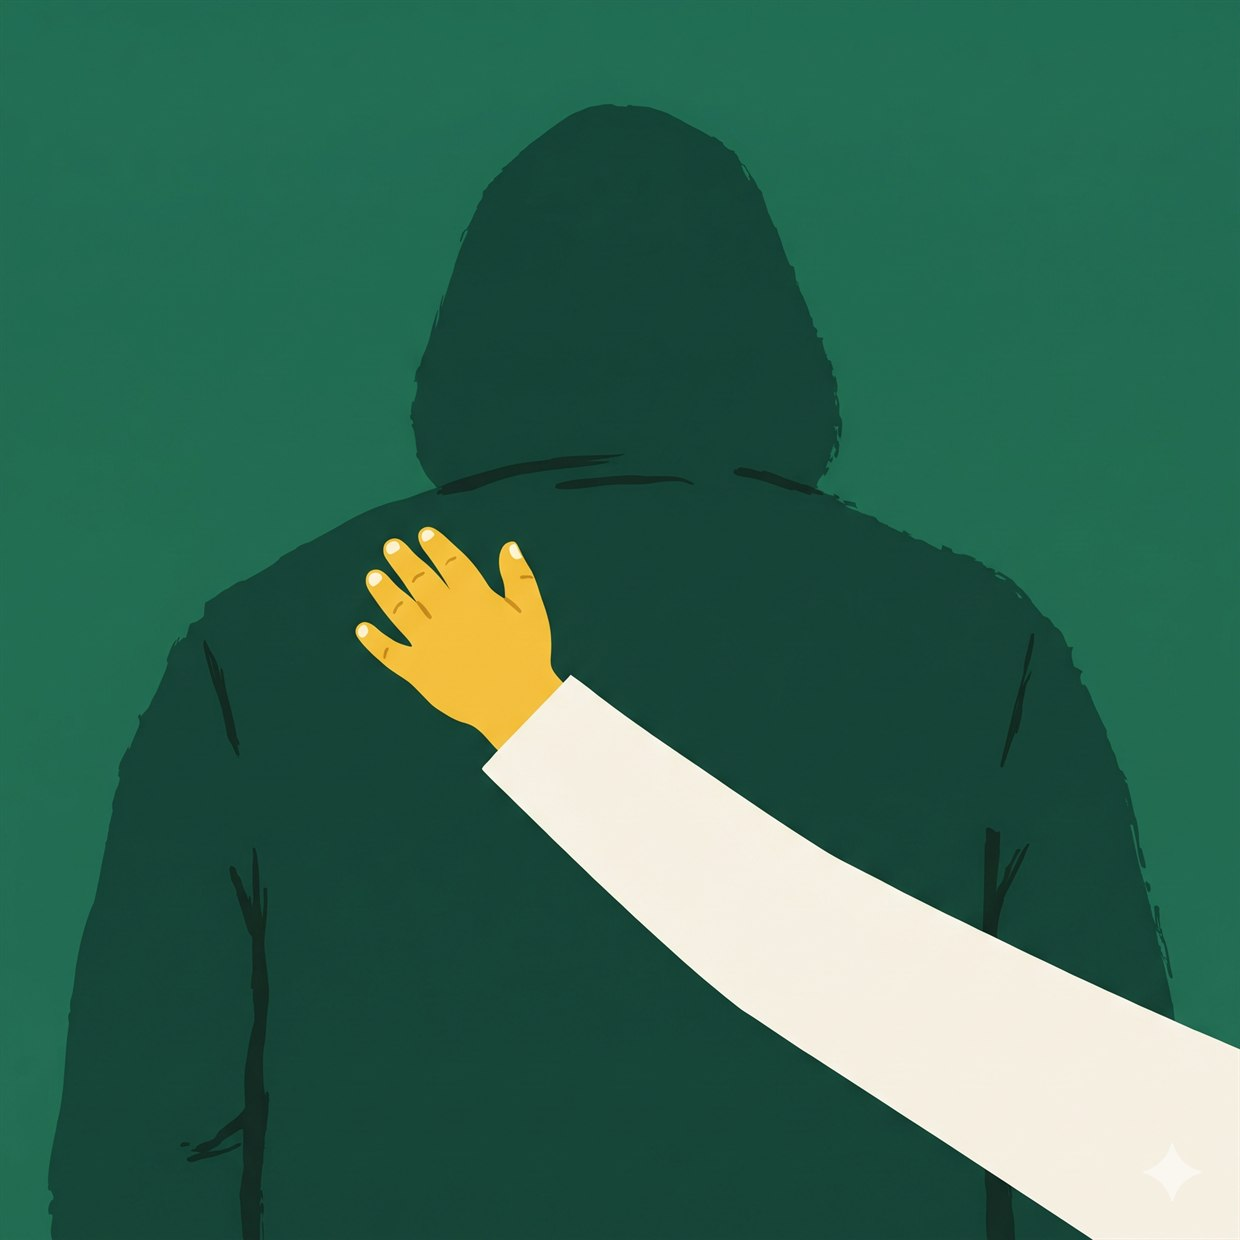
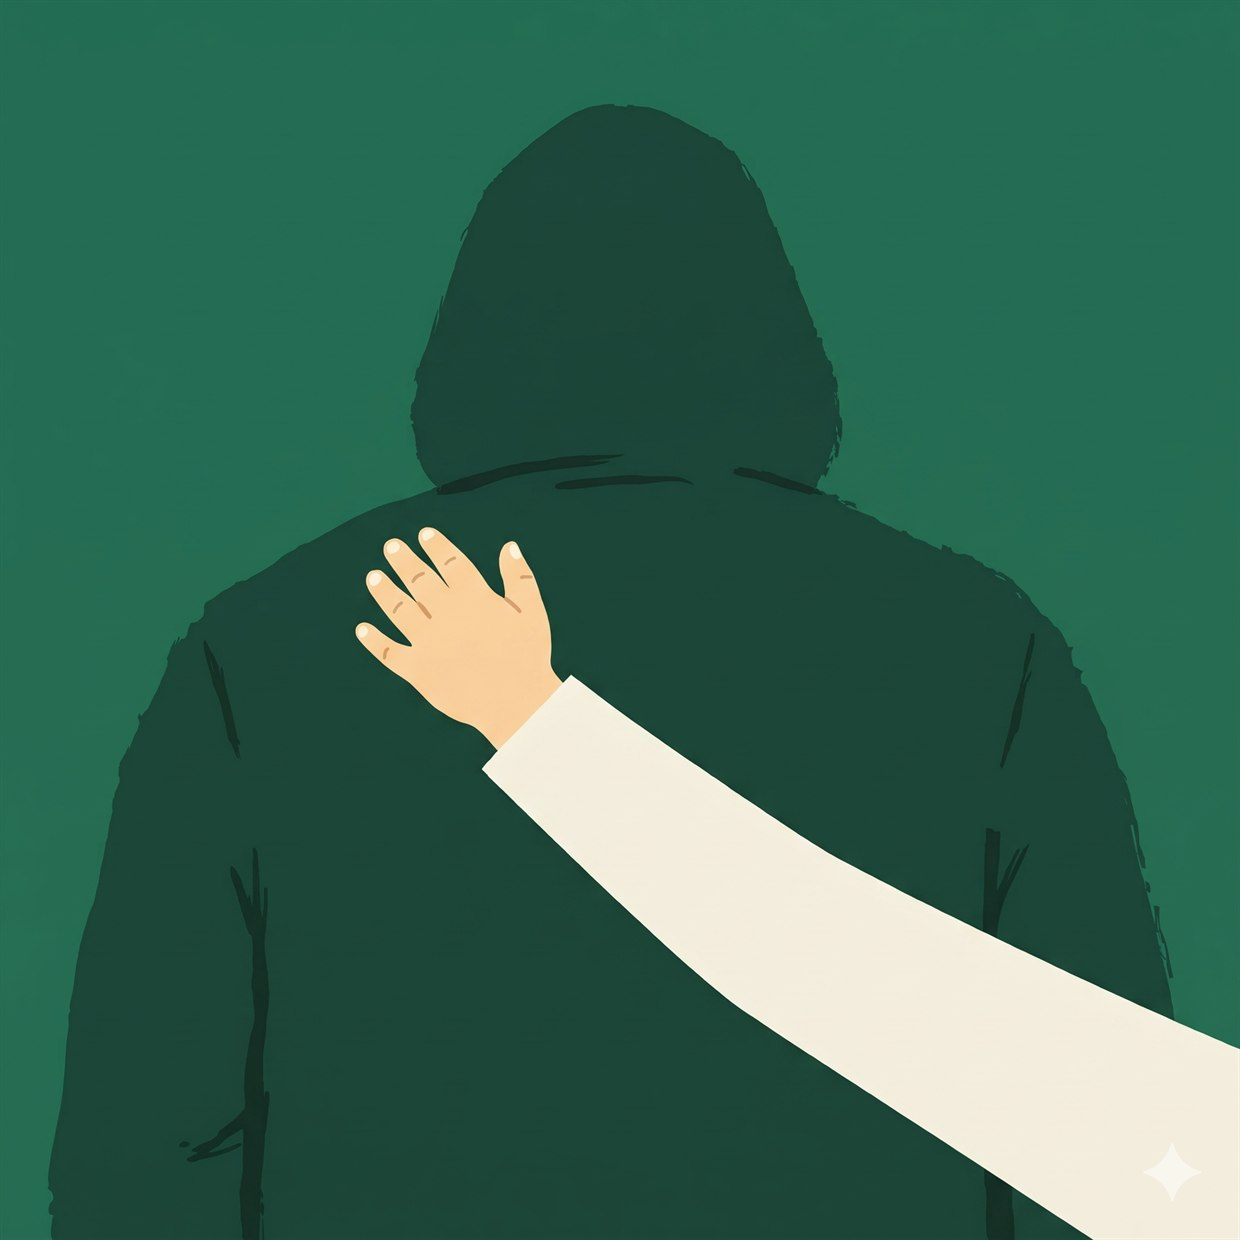
로고와 인트로 장면의 손·얼굴 색을 밝은 베이지로 통일

Changed region(s): [[0.2758, 0.429, 0.4597, 0.6129]]

diff --git a/index.html b/index.html
@@ -6,25 +6,25 @@
 <title>저기요 (가칭)</title>
 <meta name="theme-color" content="#ECEDE8">
 <link rel="manifest" href="manifest.webmanifest">
-<link rel="icon" href="icons/icon-192.png">
-<link rel="apple-touch-icon" href="icons/apple-touch-icon.png">
+<link rel="icon" href="icons/icon-192.png?v=2">
+<link rel="apple-touch-icon" href="icons/apple-touch-icon.png?v=2">
 <meta name="apple-mobile-web-app-capable" content="yes">
 <meta name="mobile-web-app-capable" content="yes">
 <meta name="apple-mobile-web-app-title" content="저기요">
 <meta name="apple-mobile-web-app-status-bar-style" content="default">
-<link rel="preload" as="image" href="intro/scene_a.jpg">
+<link rel="preload" as="image" href="intro/scene_a.jpg?v=2">
 <link rel="stylesheet" href="https://cdn.jsdelivr.net/gh/orioncactus/pretendard@v1.3.9/dist/web/static/pretendard.min.css">
 <link rel="stylesheet" href="https://fonts.googleapis.com/css2?family=Gaegu&display=swap">
-<link rel="stylesheet" href="app.css?v=5">
+<link rel="stylesheet" href="app.css?v=7">
 </head>
 <body>
 <div class="app" id="app"><div class="loading">불러오는 중</div></div>
 <div id="ov"></div>
-<script src="intro.js?v=6"></script>
+<script src="intro.js?v=7"></script>
 <script src="https://cdn.jsdelivr.net/npm/@supabase/supabase-js@2/dist/umd/supabase.min.js"></script>
 <script src="https://cdn.jsdelivr.net/npm/qrcode-generator@1.4.4/qrcode.min.js"></script>
-<script src="config.js?v=5"></script>
-<script src="core.js?v=5"></script>
-<script src="owner.js?v=5"></script>
+<script src="config.js?v=7"></script>
+<script src="core.js?v=7"></script>
+<script src="owner.js?v=7"></script>
 </body>
 </html>

diff --git a/core.js b/core.js
@@ -24,7 +24,7 @@ const isStandalone = matchMedia('(display-mode: standalone)').matches || navigat
 const canVib = () => !!navigator.vibrate && (!navigator.userActivation || navigator.userActivation.hasBeenActive);
 const vib = p => { if (canVib()) try { navigator.vibrate(p); } catch (e) { } };
 
-const LOGO = '<img class="logo" src="icons/icon-192.png" alt="">';
+const LOGO = '<img class="logo" src="icons/icon-192.png?v=2" alt="">';
 const BRAND = LOGO + '<span class="wm">저기요</span>';
 const clock = ms => { const x = Math.max(0, Math.floor(ms / 1000)); return `${Math.floor(x / 60)}:${pad(x % 60)}`; };
 const plateHTML = (t, cls) => `<span class="plate${cls ? ' ' + cls : ''}">${esc(t)}</span>`;
@@ -185,7 +185,7 @@ async function stickerBlob(url) {
   const rr = (x, y, w, h, r) => { g.beginPath(); if (g.roundRect) g.roundRect(x, y, w, h, r); else g.rect(x, y, w, h); };
   const F = 'Pretendard, "Malgun Gothic", sans-serif';
   try { await document.fonts.load('400 76px Gaegu', '저기요'); } catch (e) { }
-  const logo = await new Promise(res => { const im = new Image(); im.onload = () => res(im); im.onerror = () => res(null); im.src = 'icons/icon-512.png'; });
+  const logo = await new Promise(res => { const im = new Image(); im.onload = () => res(im); im.onerror = () => res(null); im.src = 'icons/icon-512.png?v=2'; });
   g.fillStyle = '#1B6B4E'; rr(0, 0, W, H, 48); g.fill();
   g.fillStyle = '#fff'; rr(24, 24, W - 48, H - 48, 32); g.fill();
   g.textBaseline = 'middle'; g.textAlign = 'left'; g.fillStyle = '#1C211F'; g.font = `400 76px Gaegu, ${F}`;

diff --git a/c.html b/c.html
@@ -5,20 +5,20 @@
 <meta name="viewport" content="width=device-width,initial-scale=1,viewport-fit=cover">
 <title>저기요 (가칭) 차주에게 연락하기</title>
 <meta name="theme-color" content="#ECEDE8">
-<link rel="icon" href="icons/icon-192.png">
-<link rel="preload" as="image" href="intro/scene_a.jpg">
+<link rel="icon" href="icons/icon-192.png?v=2">
+<link rel="preload" as="image" href="intro/scene_a.jpg?v=2">
 <link rel="stylesheet" href="https://cdn.jsdelivr.net/gh/orioncactus/pretendard@v1.3.9/dist/web/static/pretendard.min.css">
 <link rel="stylesheet" href="https://fonts.googleapis.com/css2?family=Gaegu&display=swap">
-<link rel="stylesheet" href="app.css?v=5">
+<link rel="stylesheet" href="app.css?v=7">
 </head>
 <body>
 <div class="app" id="app"><div class="loading">불러오는 중</div></div>
 <div id="ov"></div>
-<script src="intro.js?v=6"></script>
+<script src="intro.js?v=7"></script>
 <script src="https://cdn.jsdelivr.net/npm/@supabase/supabase-js@2/dist/umd/supabase.min.js"></script>
 <script src="https://cdn.jsdelivr.net/npm/qrcode-generator@1.4.4/qrcode.min.js"></script>
-<script src="config.js?v=5"></script>
-<script src="core.js?v=5"></script>
-<script src="req.js?v=5"></script>
+<script src="config.js?v=7"></script>
+<script src="core.js?v=7"></script>
+<script src="req.js?v=7"></script>
 </body>
 </html>

diff --git a/intro.js b/intro.js
@@ -9,7 +9,7 @@
   const el = document.createElement('div');
   el.className = 'ji';
   el.setAttribute('aria-hidden', 'true');
-  el.innerHTML = '<div class="ji-col"><div class="ji-tile"><div class="ji-cam"><img class="a" src="intro/scene_a.jpg" alt=""><img class="b" src="intro/scene_b.jpg" alt="" onerror="this.remove()"></div>'
+  el.innerHTML = '<div class="ji-col"><div class="ji-tile"><div class="ji-cam"><img class="a" src="intro/scene_a.jpg?v=2" alt=""><img class="b" src="intro/scene_b.jpg?v=2" alt="" onerror="this.remove()"></div>'
     + '<img class="ji-face" src="intro/scene_c.jpg?v=2" alt="" onerror="this.remove()"></div><div class="ji-word">저기요<i>가칭</i></div><span class="ji-tok a">톡</span><span class="ji-tok b">톡</span></div>';
   document.body.appendChild(el);
   const col = el.firstChild, $ = s => el.querySelector(s);

diff --git a/req.js b/req.js
@@ -210,7 +210,7 @@ const V = {
   wait: () => {
     const u = cur.level === 'urgent';
     return `${BAR()}
-      <img class="tapmark${u ? ' fast' : ''}" src="icons/icon-192.png" alt="">
+      <img class="tapmark${u ? ' fast' : ''}" src="icons/icon-192.png?v=2" alt="">
       <div class="clock" id="r-el">0:00</div>
       <h2 class="big" style="margin-top:10px">${cur.feedback ? '직접 와 달라고 다시 알리고 있어요' : u ? '긴급 알림을 보내고 있어요' : '차주 폰이 울리고 있어요'}</h2>
       <p class="lead">알림 <b id="r-rings">${rings}</b>번 보냄. 이 화면을 열어 두세요.</p>

diff --git a/owner.js b/owner.js
@@ -132,7 +132,7 @@ const statusLines = () => [statusText(car), leaveText(car)].filter(Boolean);
 
 const W = {
   welcome: () => `<div class="welcome">
-      <img class="logo big" src="icons/icon-512.png" alt="">
+      <img class="logo big" src="icons/icon-512.png?v=2" alt="">
       <h1 class="wm big">저기요<small>가칭</small></h1>
       <p class="lead">QR 스티커 하나로<br>주차 이동 요청과 사고 알림을 받아요</p>
       <ul>
